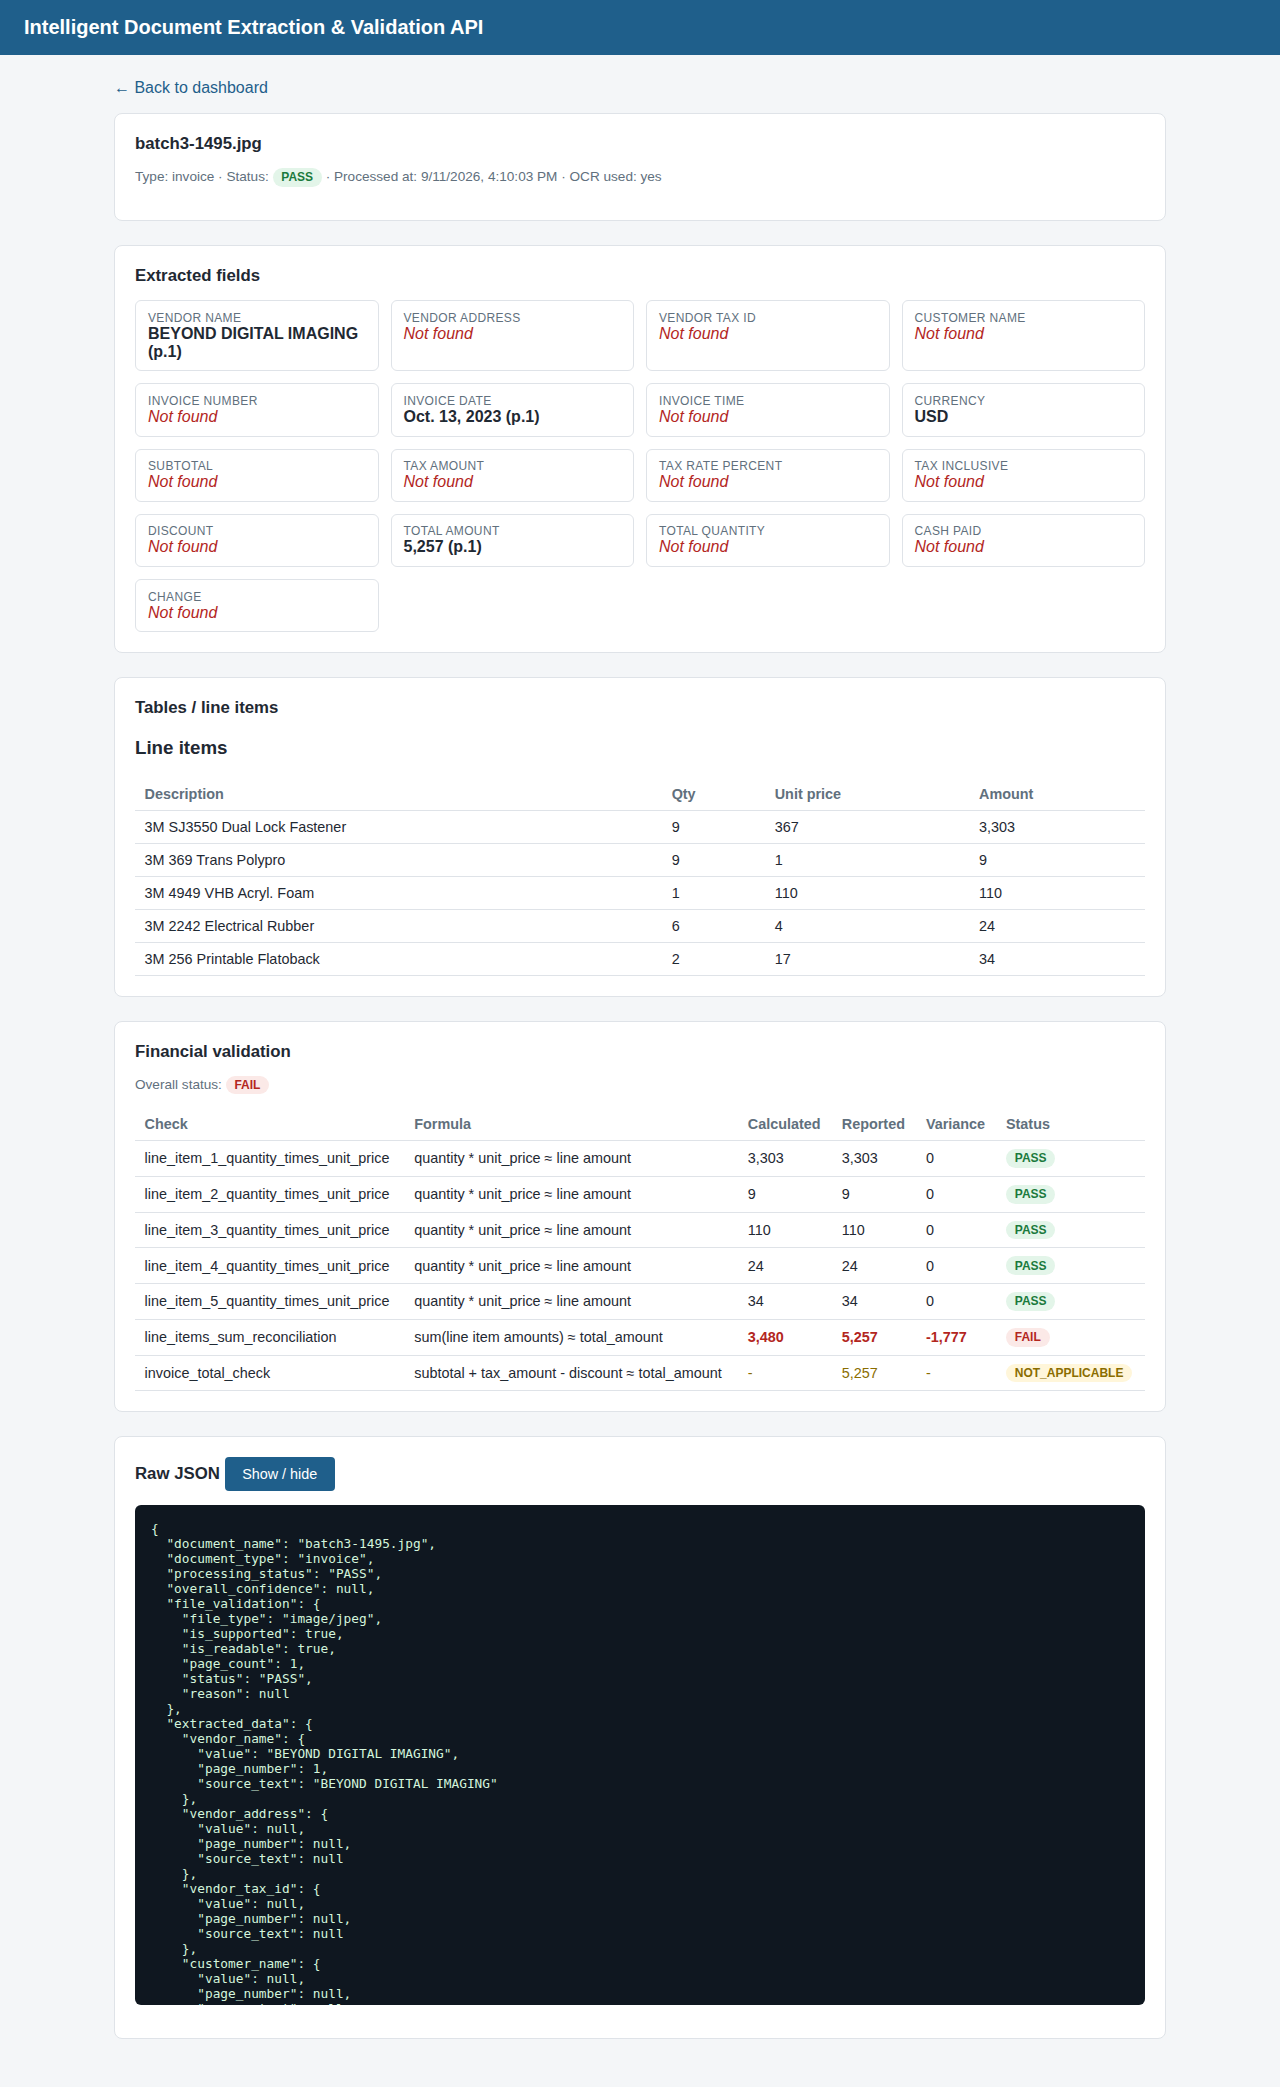
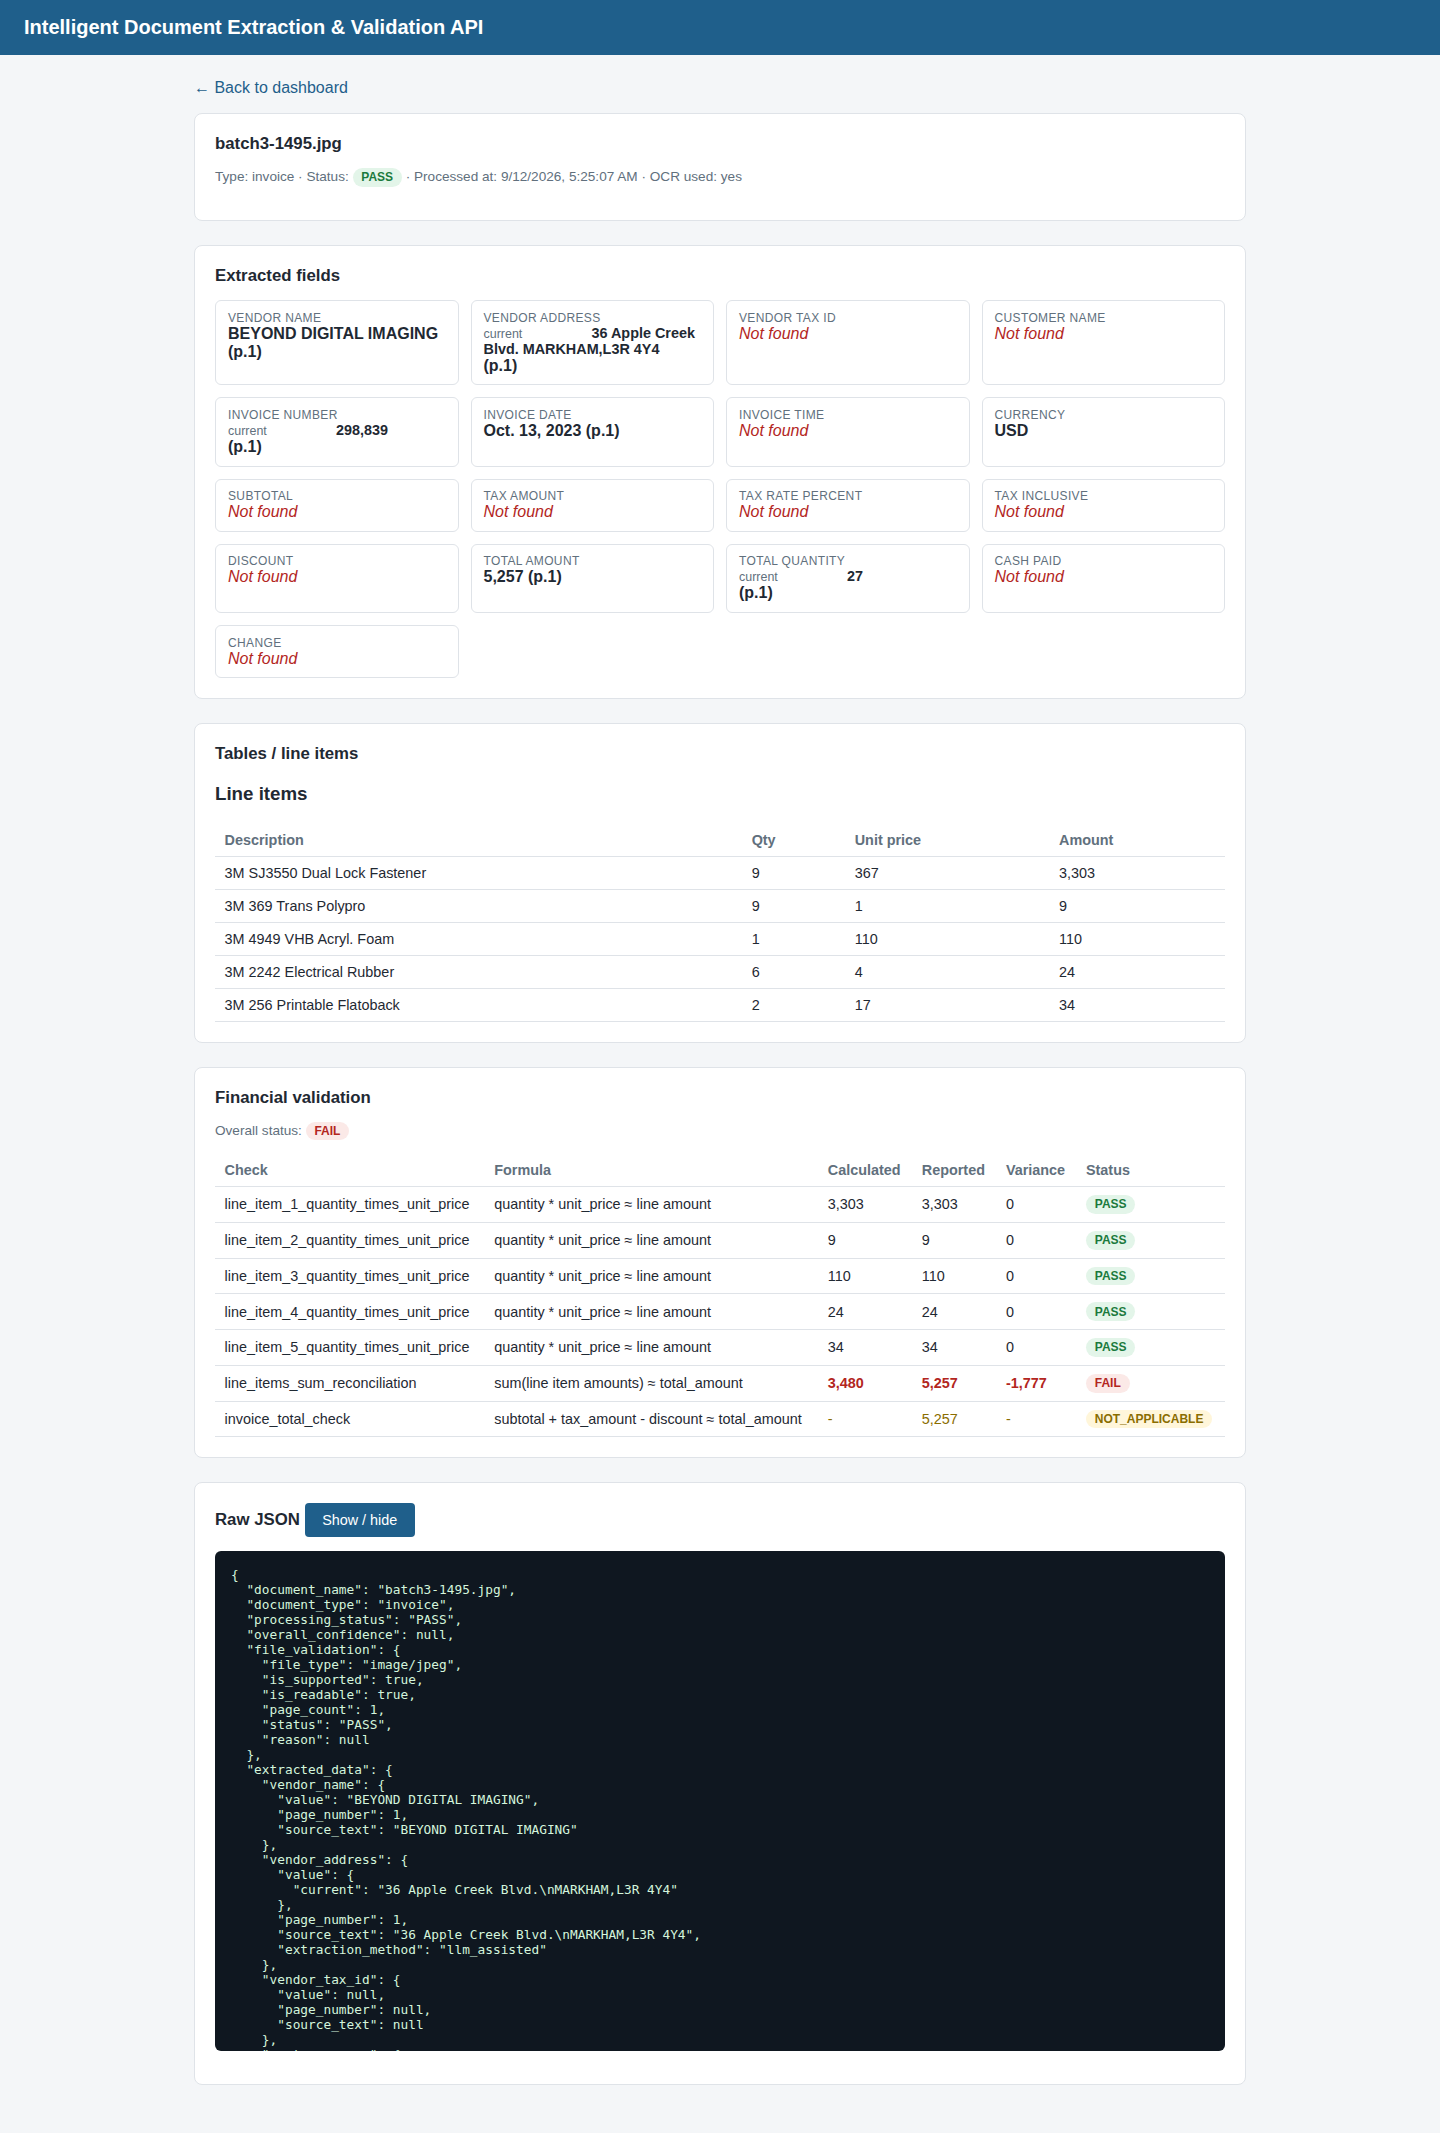
Stop the brought-forward row being read as the profit it follows
"Brought forward consolidated profit attributable to the group" carries the same
phrase as the profit row itself. On the 2022 statement OCR loses the profit row
entirely, so the lookup landed on the brought-forward row and the appropriation
check compared one figure against itself (61,817.68 on both sides). Excluding
the brought-forward wording takes profit & loss to 96 PASS / 0 FAIL.

Across the 50-document dataset with the vision pass: 261 PASS / 2 FAIL / 43
NOT_APPLICABLE, up from 255 / 3 / 48. Both remaining failures are the genuine
discrepancies verified against the source images - a receipt whose items total
$3,480 against a printed $5,257, and one whose change is RM 2.00 short.

Also caps the vision pass with a whole-pass time budget. Retries across three
fallback models compound, and one document spent 134s in there while the free
tier was busy; the budget is checked before each model and before each backoff,
and the document falls back to its deterministic result when it runs out.

Screenshots regenerated from the running application, including the dashboard
search and the 2022 balance sheet the deterministic path cannot read.

Claude-Session: https://claude.ai/code/session_01KDihiRTYzTrgWmqHF4z1nu

diff --git a/backend/app/services/llm_extraction_service.py b/backend/app/services/llm_extraction_service.py
@@ -220,10 +220,20 @@ class LlmExtractionService:
         }
         # A free-tier model can be at capacity for minutes at a time, and a
         # document should not lose its recovery pass because one model is busy.
+        # Retries across several models compound: one document spent 134s in
+        # here while the free tier was busy. The whole pass gets one budget, and
+        # the document falls back to its deterministic result when that runs out.
+        deadline = time.monotonic() + self.settings.llm_total_budget_seconds
         payload, model_used = None, None
         for model in self._model_chain():
+            if time.monotonic() >= deadline:
+                logger.info("Vision pass gave up after %ss; keeping the rule-based result",
+                            self.settings.llm_total_budget_seconds)
+                break
             try:
-                payload = self._post_json(_GEMINI_ENDPOINT.format(model=model), body, headers)
+                payload = self._post_json(
+                    _GEMINI_ENDPOINT.format(model=model), body, headers, deadline
+                )
                 model_used = model
                 break
             except Exception as exc:
@@ -253,10 +263,12 @@ class LlmExtractionService:
     # would only waste the caller's time.
     _RETRYABLE_STATUS = frozenset({429, 500, 502, 503, 504})
 
-    def _post_json(self, url: str, body: dict, headers: dict) -> dict:
+    def _post_json(self, url: str, body: dict, headers: dict, deadline: float) -> dict:
         data = json.dumps(body).encode()
         last_error: Exception | None = None
         for attempt in range(self.settings.llm_max_attempts):
+            if time.monotonic() >= deadline:
+                break
             request = urllib.request.Request(url, data=data, headers=headers, method="POST")
             try:
                 with urllib.request.urlopen(request, timeout=self.settings.llm_timeout_seconds) as response:
@@ -273,10 +285,12 @@ class LlmExtractionService:
                 logger.info("Vision model call failed (attempt %s): %s; retrying", attempt + 1, exc)
 
             if attempt + 1 < self.settings.llm_max_attempts:
-                time.sleep(2 ** attempt)
+                backoff = 2 ** attempt
+                if time.monotonic() + backoff >= deadline:
+                    break
+                time.sleep(backoff)
 
-        assert last_error is not None
-        raise last_error
+        raise last_error or TimeoutError("vision pass ran out of time")
 
     def _call_anthropic(
         self, document_text: str, document_type: str, missing_fields: list[str], periods: list[str]

diff --git a/backend/tests/test_extraction.py b/backend/tests/test_extraction.py
@@ -624,3 +624,34 @@ def test_gemini_string_scalars_are_coerced_to_numbers():
     assert _coerce("42") == 42
     assert _coerce("ABC Traders") == "ABC Traders"
     assert _coerce(None) is None
+
+
+def test_brought_forward_row_is_not_read_as_the_attributable_profit():
+    """Both labels end "attributable to the group"; a lost profit row must not
+    make the appropriation check compare one figure against itself."""
+    section = StatementSection(name="profit")
+    section.items = [
+        StatementLineItem(
+            "Add: Brought forward consolidated profit attributable to the group",
+            "profit__bf", {"2022": 61817.68}, 1, "row",
+        ),
+    ]
+    assert section.find("attributable to the group") is not None
+    assert section.find("attributable to the group", exclude=("brought forward",)) is None
+
+
+def test_vision_pass_stops_at_its_time_budget(monkeypatch):
+    """Retries across several models must not hold a request open indefinitely."""
+    import time as _time
+
+    from app.services.llm_extraction_service import LlmExtractionService
+
+    service = LlmExtractionService(Settings(gemini_api_key="k", llm_total_budget_seconds=0))
+    calls = []
+    monkeypatch.setattr(
+        service, "_post_json", lambda *a, **k: calls.append(1) or {"candidates": []}
+    )
+    started = _time.perf_counter()
+    assert service.recover_missing_fields("text", "invoice", ["total_amount"], [b"png"]) == {}
+    assert calls == []  # budget already spent, so no model was tried
+    assert _time.perf_counter() - started < 1

diff --git a/backend/app/services/extraction_service.py b/backend/app/services/extraction_service.py
@@ -223,7 +223,13 @@ class ExtractionService:
 
         total_income = find_in_sections(sections, "income", "total")
         total_expenditure = find_in_sections(sections, "expenditure", "total")
-        attributable = find_preferring_section(sections, "profit", "attributable to the group")
+        # "Brought forward consolidated profit attributable to the group" carries
+        # the same phrase as the profit row itself. Where a poor scan loses the
+        # profit row, the lookup would otherwise land on the brought-forward row
+        # and report one figure as both operands of the appropriation check.
+        attributable = find_preferring_section(
+            sections, "profit", "attributable to the group", exclude=("brought forward",)
+        )
         total_appropriation = find_in_sections(sections, "appropriations", "total")
 
         extracted_data = {

diff --git a/backend/app/core/config.py b/backend/app/core/config.py
@@ -60,6 +60,9 @@ class Settings(BaseSettings):
     llm_max_text_chars: int = 20000
     llm_timeout_seconds: int = 90
     llm_max_attempts: int = 3
+    # Whole-pass budget across every retry and fallback model, so a busy free
+    # tier cannot hold a request open indefinitely.
+    llm_total_budget_seconds: int = 45
     # Longest edge of the page images sent to the vision model.
     vision_max_image_px: int = 1600
 

diff --git a/README.md b/README.md
@@ -424,7 +424,7 @@ use the managed database so processed results survive a restart.
 ## Testing
 
 ```bash
-cd backend && pytest            # 73 tests
+cd backend && pytest            # 79 tests
 ```
 
 Covering file validation (type sniffing, empty, corrupted, page limit, size
@@ -468,18 +468,20 @@ pass enabled.
 | Document type | Docs | PASS | FAIL | NOT_APPLICABLE |
 | --- | --- | --- | --- | --- |
 | Balance sheet | 10 | 49 | 0 | 11 |
-| Profit & loss | 10 | 90 | 1 | 9 |
+| Profit & loss | 10 | 96 | 0 | 4 |
 | Cash flow | 10 | 37 | 0 | 3 |
 | Invoice | 20 | 29 | 2 | 25 |
-| **Total** | **50** | **255** | **3** | **48** |
+| **Total** | **50** | **261** | **2** | **43** |
 
-The vision pass turns 24 `NOT_APPLICABLE` results into reconciled checks, and
+The vision pass turns 29 `NOT_APPLICABLE` results into reconciled checks, and
 all 50 documents reach `processing_status: PASS` — including the two 2022
 statements that the deterministic path cannot read at all. The 2022 balance
 sheet goes from 4 of 17 fields to 17 of 18, and its components reconcile to the
 reported total exactly. Field coverage rises across the invoices too, typically
-from 2–8 fields to 10–15. The cost is latency: a median of 8.7 s against 2.1 s,
-since a document with missing fields makes one extra call.
+from 2–8 fields to 10–15. Every statement check that can be evaluated now
+passes, and the only two failures left in the whole dataset are the genuine
+document discrepancies described above. The cost is latency: a median of 9.0 s
+against 2.1 s, since a document with missing fields makes one extra call.
 
 The numbers below describe the deterministic path, which is what runs without a
 key.
